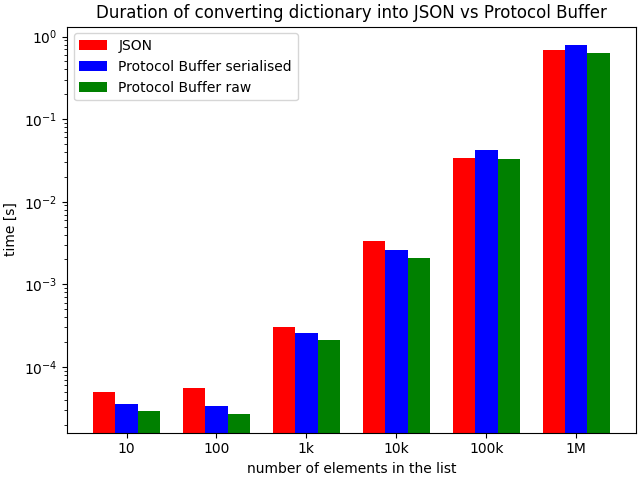
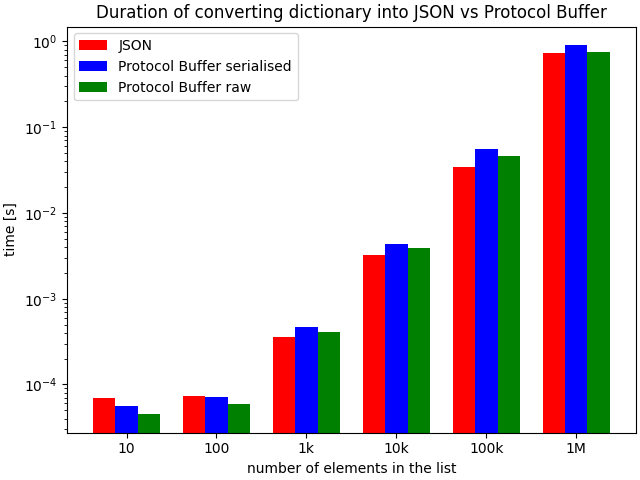
docs: update images and tables 100 avg run

diff --git a/README.md b/README.md
@@ -758,12 +758,12 @@ sudo docker run -it --rm --name rabbitmq -p 5672:5672 -p 15672:15672 rabbitmq:3.
 
 | List size |    JSON    | ProtocolBuffer Serialised | ProtocolBuffer raw object | Reduction |
 |:----------|:----------:|:-------------------------:|:-------------------------:|----------:|
-| 10        | 0.000 06 s |        0.000 04 s         |        0.000 04 s         |      33 % |
-| 100       | 0.000 04 s |        0.000 02 s         |        0.000 01 s         |   50-75 % |
-| 1k        | 0.000 13 s |        0.000 06 s         |        0.000 05 s         |   54-62 % |
-| 10k       | 0.001 12 s |        0.000 70 s         |        0.000 51 s         |   38-54 % |
-| 100k      | 0.011 71 s |        0.007 63 s         |        0.005 85 s         |   35-50 % |
-| 1M        | 0.110 16 s |        0.074 59 s         |        0.057 35 s         |   32-48 % |
+| 10        | 0.000 07 s |        0.000 02 s         |        0.000 02 s         |      71 % |
+| 100       | 0.000 03 s |        0.000 01 s         |        0.000 01 s         |      66 % |
+| 1k        | 0.000 11 s |        0.000 06 s         |        0.000 05 s         |   45-55 % |
+| 10k       | 0.001 09 s |        0.000 53 s         |        0.000 45 s         |   51-59 % |
+| 100k      | 0.011 31 s |        0.007 35 s         |        0.005 78 s         |   35-49 % |
+| 1M        | 0.113 41 s |        0.074 11 s         |        0.057 23 s         |   35-50 % |
 
 ### Python dictionary (short keys < 7 characters)
 
@@ -787,12 +787,12 @@ sudo docker run -it --rm --name rabbitmq -p 5672:5672 -p 15672:15672 rabbitmq:3.
 
 | List size |    JSON    | ProtocolBuffer Serialised | ProtocolBuffer raw object |     Reduction |
 |:----------|:----------:|:-------------------------:|:-------------------------:|--------------:|
-| 10        | 0.000 06 s |        0.000 09 s         |        0.000 08 s         | (-50)-(-33) % |
-| 100       | 0.000 06 s |        0.000 06 s         |        0.000 05 s         |       0-17  % |
-| 1k        | 0.000 33 s |        0.000 43 s         |        0.000 39 s         | (-30)-(-18) % |
-| 10k       | 0.031 13 s |        0.004 24 s         |        0.003 82 s         |       86-88 % |
-| 100k      | 0.064 69 s |        0.064 08 s         |        0.052 68 s         |        1-19 % |
-| 1M        | 0.675 56 s |        0.916 78 s         |        0.754 72 s         | (-36)-(-12) % |
+| 10        | 0.000 07 s |        0.000 06 s         |        0.000 05 s         |       14-29 % |
+| 100       | 0.000 07 s |        0.000 07 s         |        0.000 06 s         |       0-14  % |
+| 1k        | 0.000 36 s |        0.000 46 s         |        0.000 41 s         | (-27)-(-14) % |
+| 10k       | 0.003 24 s |        0.004 34 s         |        0.003 86 s         | (-34)-(-19) % |
+| 100k      | 0.034 19 s |        0.055 13 s         |        0.046 12 s         | (-61)-(-35) % |
+| 1M        | 0.725 99 s |        0.910 48 s         |        0.748 13 s         |  (-25)-(-3) % |
 
 ### Python dictionary (long keys > 70 characters)
 
@@ -814,12 +814,18 @@ sudo docker run -it --rm --name rabbitmq -p 5672:5672 -p 15672:15672 rabbitmq:3.
 
 ![JSON vs Protocol Python list](resources/time_dict_json_vs_proto.png)
 
-| List size |    JSON    | ProtocolBuffer Serialised | ProtocolBuffer raw object |     Reduction |
-|:----------|:----------:|:-------------------------:|:-------------------------:|--------------:|
-| 10        | 0.000 06 s |        0.000 09 s         |        0.000 08 s         | (-50)-(-33) % |
-| 100       | 0.000 10 s |        0.000 07 s         |        0.000 05 s         |      30-50  % |
-| 1k        | 0.000 86 s |        0.000 56 s         |        0.000 46 s         |       35-47 % |
-| 10k       | 0.034 73 s |        0.010 48 s         |        0.006 68 s         |       70-80 % |
-| 100k      | 0.127 81 s |        0.126 80 s         |        0.087 48 s         |        1-32 % |
-| 1M        | 1.336 67 s |        1.665 21 s         |        1.132 30 s         |    (-25)-15 % |
+| List size |    JSON    | ProtocolBuffer Serialised | ProtocolBuffer raw object |  Reduction |
+|:----------|:----------:|:-------------------------:|:-------------------------:|-----------:|
+| 10        | 0.000 08 s |        0.000 05 s         |        0.000 04 s         |    38-50 % |
+| 100       | 0.000 10 s |        0.000 08 s         |        0.000 06 s         |    20-40 % |
+| 1k        | 0.000 71 s |        0.000 57 s         |        0.000 46 s         |    20-35 % |
+| 10k       | 0.007 19 s |        0.006 23 s         |        0.004 68 s         |    13-35 % |
+| 100k      | 0.094 58 s |        0.121 72 s         |        0.082 81 s         | (-29)-12 % |
+| 1M        | 1.347 49 s |        1.635 06 s         |        1.114 57 s         | (-21)-17 % |
+
+
+### Conclusion
+
+TBA
+
 
